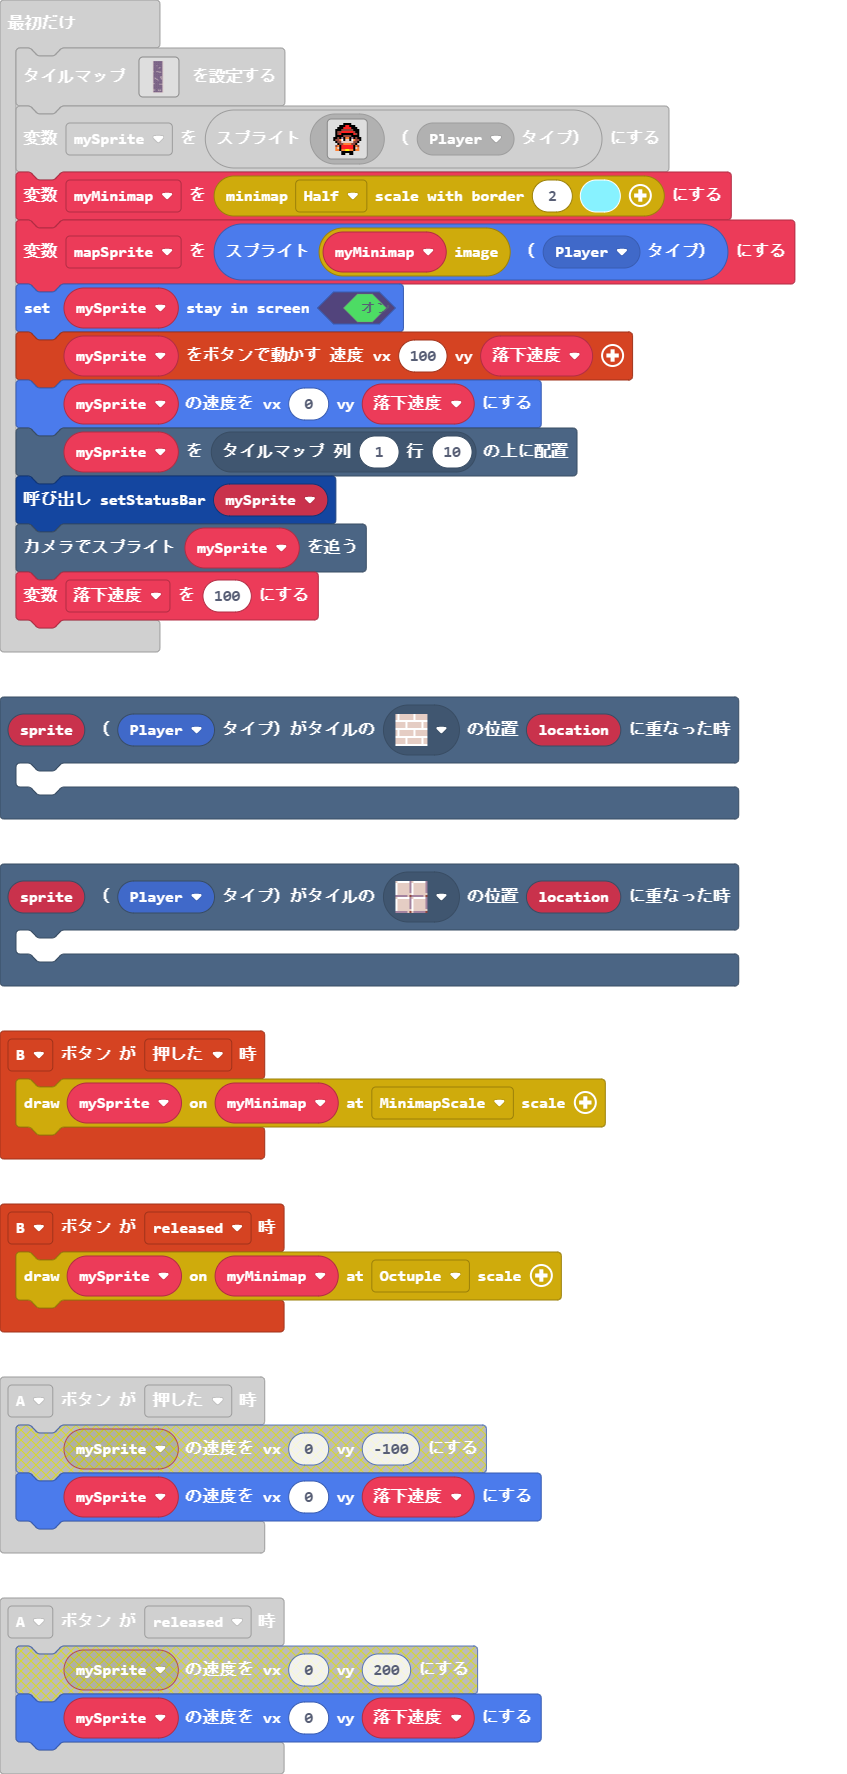
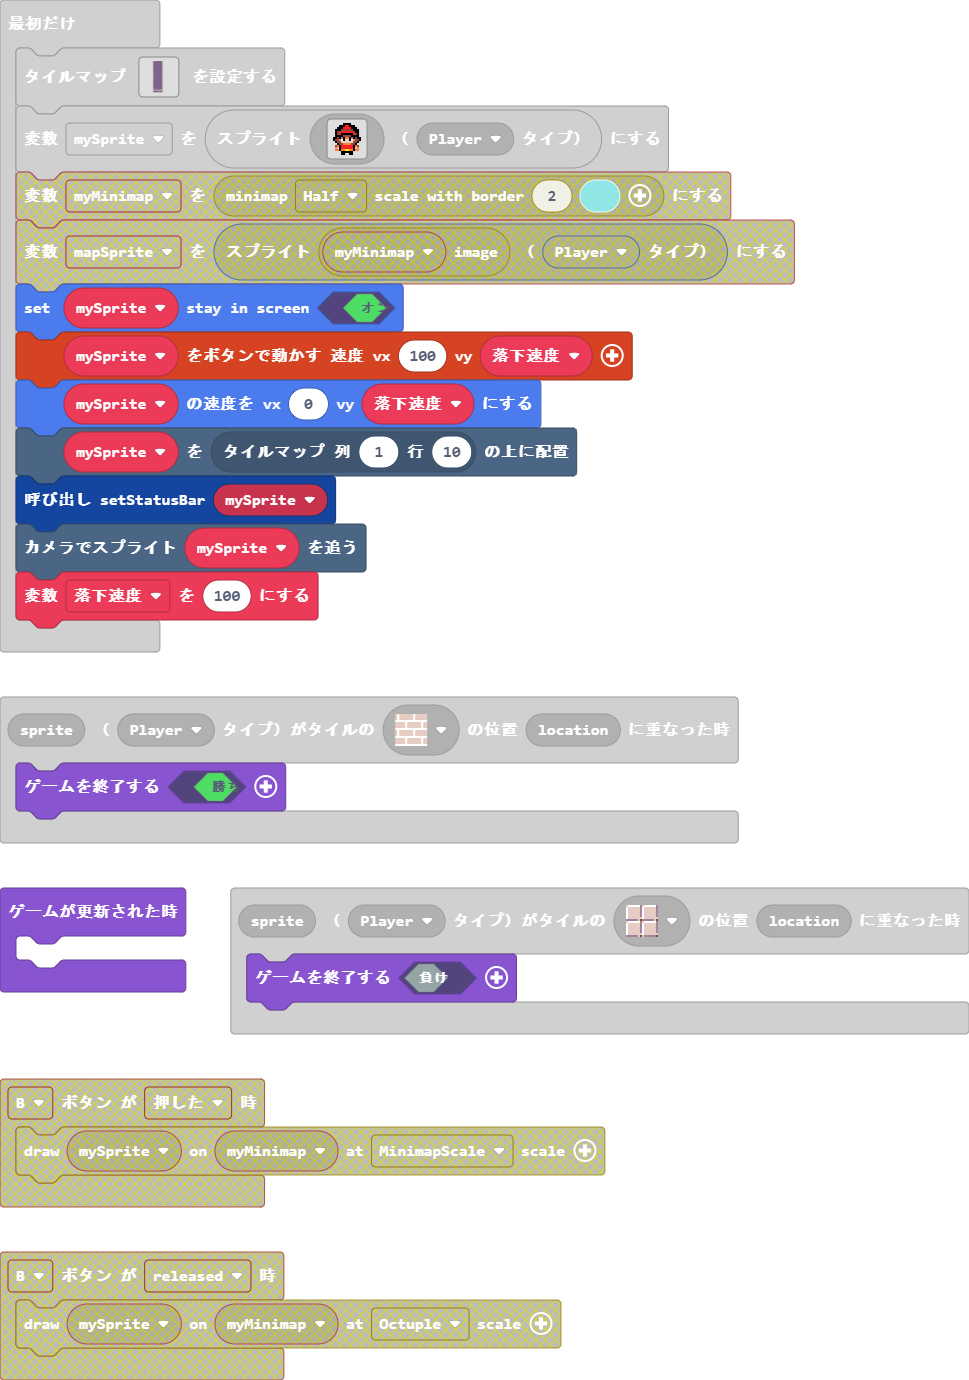
更新 main.blocks, main.ts, tilemap.g.jres, tilemap.g.ts

diff --git a/tilemap.g.ts b/tilemap.g.ts
@@ -24,8 +24,46 @@ namespace myTiles {
 . . . . . . . . . . . . . . . . 
 . . . . . . . . . . . . . . . . 
 `, [myTiles.transparency16], TileScale.Sixteen);
+            case "レベル2":
+            case "レベル2":return tiles.createTilemap(hex`1000100000000000000000000000000000000000000000000000000000000000000000000000000000000000000000000000000000000000000000000000000000000000000000000000000000000000000000000000000000000000000000000000000000000000000000000000000000000000000000000000000000000000000000000000000000000000000000000000000000000000000000000000000000000000000000000000000000000000000000000000000000000000000000000000000000000000000000000000000000000000000000000000000000000000000000000000000000000000000000000000000000000000000000000000000000000000`, img`
+. . . . . . . . . . . . . . . . 
+. . . . . . . . . . . . . . . . 
+. . . . . . . . . . . . . . . . 
+. . . . . . . . . . . . . . . . 
+. . . . . . . . . . . . . . . . 
+. . . . . . . . . . . . . . . . 
+. . . . . . . . . . . . . . . . 
+. . . . . . . . . . . . . . . . 
+. . . . . . . . . . . . . . . . 
+. . . . . . . . . . . . . . . . 
+. . . . . . . . . . . . . . . . 
+. . . . . . . . . . . . . . . . 
+. . . . . . . . . . . . . . . . 
+. . . . . . . . . . . . . . . . 
+. . . . . . . . . . . . . . . . 
+. . . . . . . . . . . . . . . . 
+`, [myTiles.transparency16], TileScale.Sixteen);
+            case "レベル3":
+            case "レベル3":return tiles.createTilemap(hex`1000100000000000000000000000000000000000000000000000000000000000000000000000000000000000000000000000000000000000000000000000000000000000000000000000000000000000000000000000000000000000000000000000000000000000000000000000000000000000000000000000000000000000000000000000000000000000000000000000000000000000000000000000000000000000000000000000000000000000000000000000000000000000000000000000000000000000000000000000000000000000000000000000000000000000000000000000000000000000000000000000000000000000000000000000000000000000`, img`
+. . . . . . . . . . . . . . . . 
+. . . . . . . . . . . . . . . . 
+. . . . . . . . . . . . . . . . 
+. . . . . . . . . . . . . . . . 
+. . . . . . . . . . . . . . . . 
+. . . . . . . . . . . . . . . . 
+. . . . . . . . . . . . . . . . 
+. . . . . . . . . . . . . . . . 
+. . . . . . . . . . . . . . . . 
+. . . . . . . . . . . . . . . . 
+. . . . . . . . . . . . . . . . 
+. . . . . . . . . . . . . . . . 
+. . . . . . . . . . . . . . . . 
+. . . . . . . . . . . . . . . . 
+. . . . . . . . . . . . . . . . 
+. . . . . . . . . . . . . . . . 
+`, [myTiles.transparency16], TileScale.Sixteen);
             case "level1":
-            case "level1":return tiles.createTilemap(hex`100032000201010101010101010101010101010202010101010101010101010101010102020401010101010101010101010101020201010101010101010101010101010202010101010101010101010101010102020101010101010101010101010101020201010101010101010101010101010202010101010102010101010101010102020101010101010101010101010101020201010101010101010101010101010202010101010101010101020201010102020101010101010101020101010101020201010101010101010101010101010202010101010101010101010101010102020101010101010101010101010101020201010101010101010101010101010202020101010202020201010101010102020101010101010101020202020101020201010101010101010101010101010202010101010101010101010101010102020101010101010101010101010101020201010101010101010101010101010202010101010101010101010101010102020101010101010101010101010101020201010101010101010101010202010202010101010101010101010102010102020101020101010101010101020201020201010202010101010101010102010202010101010202010101010101020102020101010101010201010101010101020201010101010101020101010101010202010101010101010101010101010102020101010101010101010101010101020201010101010101010101010101010202010101010101010101010101010102020202010101010101010101010101020201010101010101010102020202020202010101010101010101010101010102020101010101010101010101010101020201010101010101010101010101010202010101010101010101010101010102020101010101010101010101010101020201010101010101010101010101010202010101010101010101010101010102020101010101010101010101010101020202020201010101020201020201010202010101010101010102010201010102020101010101010101010101010101020201010101010101010101010101010203030303030303030303030303030302`, img`
+            case "level1":return tiles.createTilemap(hex`100032000201010404040404040101010101010202010104040404040401010101010102020404040404040404010101010101020201040404040404040101010101010202010404040404040401010101010102020404040404040404010101010101020204040404040404040101010101010202040404040404040401010101010102020404040404040404010101010101020201040404040404040101010101010202010404040404040401010101010102020104040404040404010101010101020201040404040404040101010101010202010404040404040404010101010102020104040404040404040101010101020201040404040404040401010101010202010404040404040404010101010102020104040404040404040101010101020201040404040404040404010101010202010404040404040404040101010102020104040404040404040401010101020201040404040404040404010101010202010104040404040404040101010102020101040404040404040401010101020201010404040404040401010101010202010104040404040404010101010102020101040404040404040101010101020201040404040404040101010101010202010404040404040401010101010102020104040404040404010101010101020201040404040404010101010101010202010404040404040101010101010102020104040404040401010101010101020201010404040404010101010101010202010104040404040101010101010102020101040404040401010101010101020201010404040404010101010101010202010104040404040401010101010102020101040404040404040101010101020201010404040404040404010101010202010104040404040404040404040102020101010404040404040404040401020201010104040404040404040404010202010101010404040404040404040102020101010101040404040404040401020202020202020202020201020202020202010101010101010102010201010102020101010101010101020102010101020201010101010101010101010101010203030303030303030303030303030302`, img`
 ................
 ................
 ................

diff --git a/main.ts b/main.ts
@@ -1,8 +1,8 @@
 scene.onOverlapTile(SpriteKind.Player, sprites.dungeon.floorLight0, function (sprite, location) {
-	
+    game.over(false)
 })
 scene.onOverlapTile(SpriteKind.Player, sprites.builtin.brick, function (sprite, location) {
-	
+    game.over(true)
 })
 controller.A.onEvent(ControllerButtonEvent.Released, function () {
     mySprite.setVelocity(0, 落下速度)
@@ -12,18 +12,11 @@ function setStatusBar (aSprite: Sprite) {
     statusbar.value = 100
     statusbar.attachToSprite(aSprite, 10, 0)
 }
-controller.B.onEvent(ControllerButtonEvent.Pressed, function () {
-    minimap.includeSprite(myMinimap, mySprite, MinimapSpriteScale.MinimapScale)
-})
-controller.B.onEvent(ControllerButtonEvent.Released, function () {
-    minimap.includeSprite(myMinimap, mySprite, MinimapSpriteScale.Octuple)
-})
 controller.A.onEvent(ControllerButtonEvent.Pressed, function () {
     mySprite.setVelocity(0, 落下速度)
 })
 let statusbar: StatusBarSprite = null
 let 落下速度 = 0
-let myMinimap: minimap.Minimap = null
 let mySprite: Sprite = null
 tiles.setTilemap(tilemap`level1`)
 mySprite = sprites.create(img`
@@ -44,8 +37,6 @@ mySprite = sprites.create(img`
     . . . . . f f f f f f . . . . . 
     . . . . . f f . . f f . . . . . 
     `, SpriteKind.Player)
-myMinimap = minimap.minimap()
-let mapSprite = sprites.create(minimap.getImage(myMinimap), SpriteKind.Player)
 mySprite.setStayInScreen(true)
 controller.moveSprite(mySprite, 100, 落下速度)
 mySprite.setVelocity(0, 落下速度)
@@ -53,3 +44,6 @@ tiles.placeOnTile(mySprite, tiles.getTileLocation(1, 10))
 setStatusBar(mySprite)
 scene.cameraFollowSprite(mySprite)
 落下速度 = 100
+game.onUpdate(function () {
+	
+})
